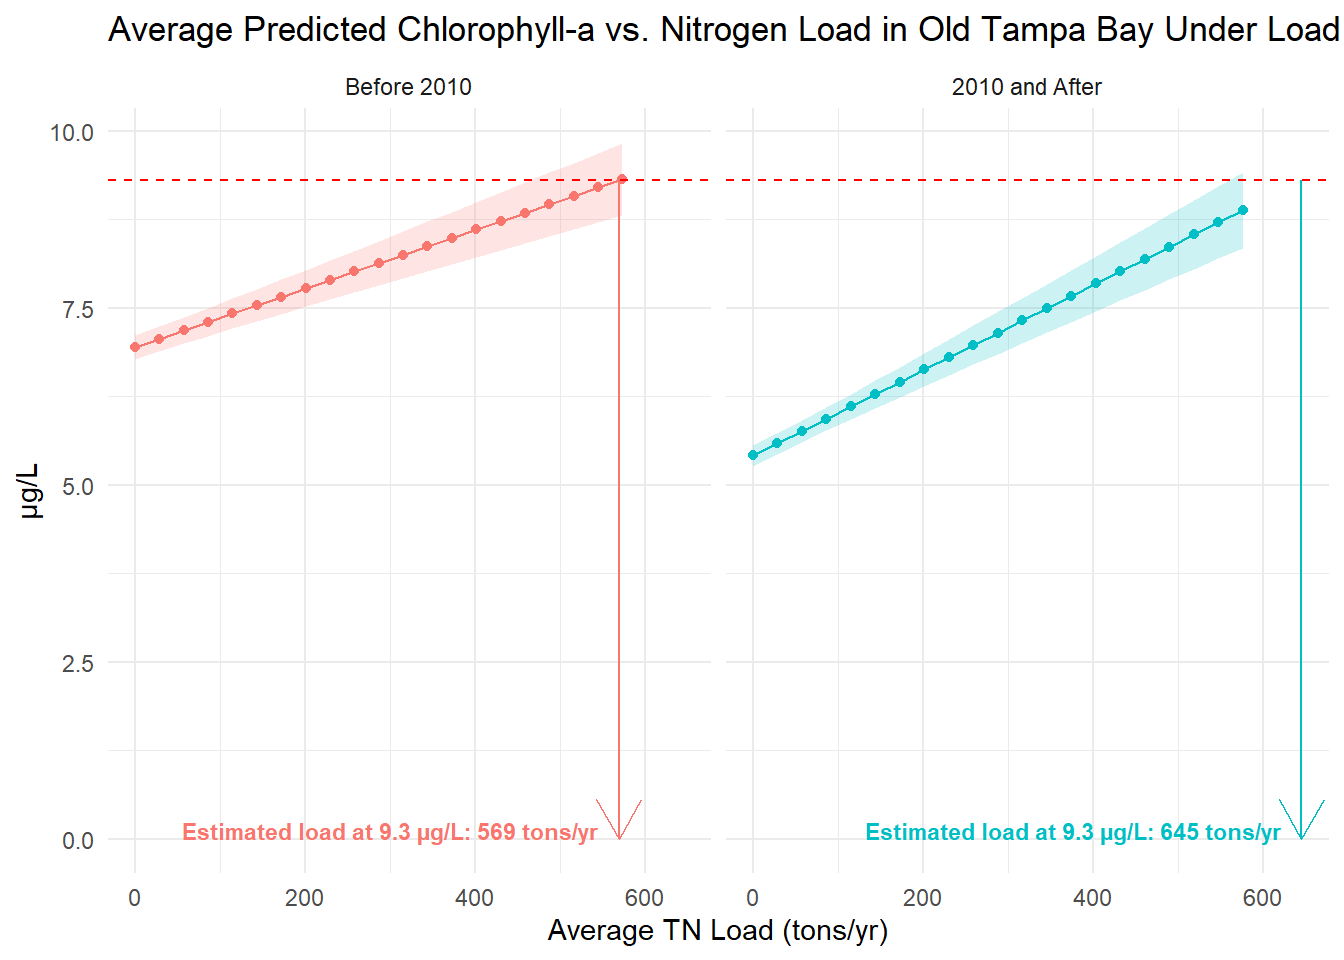
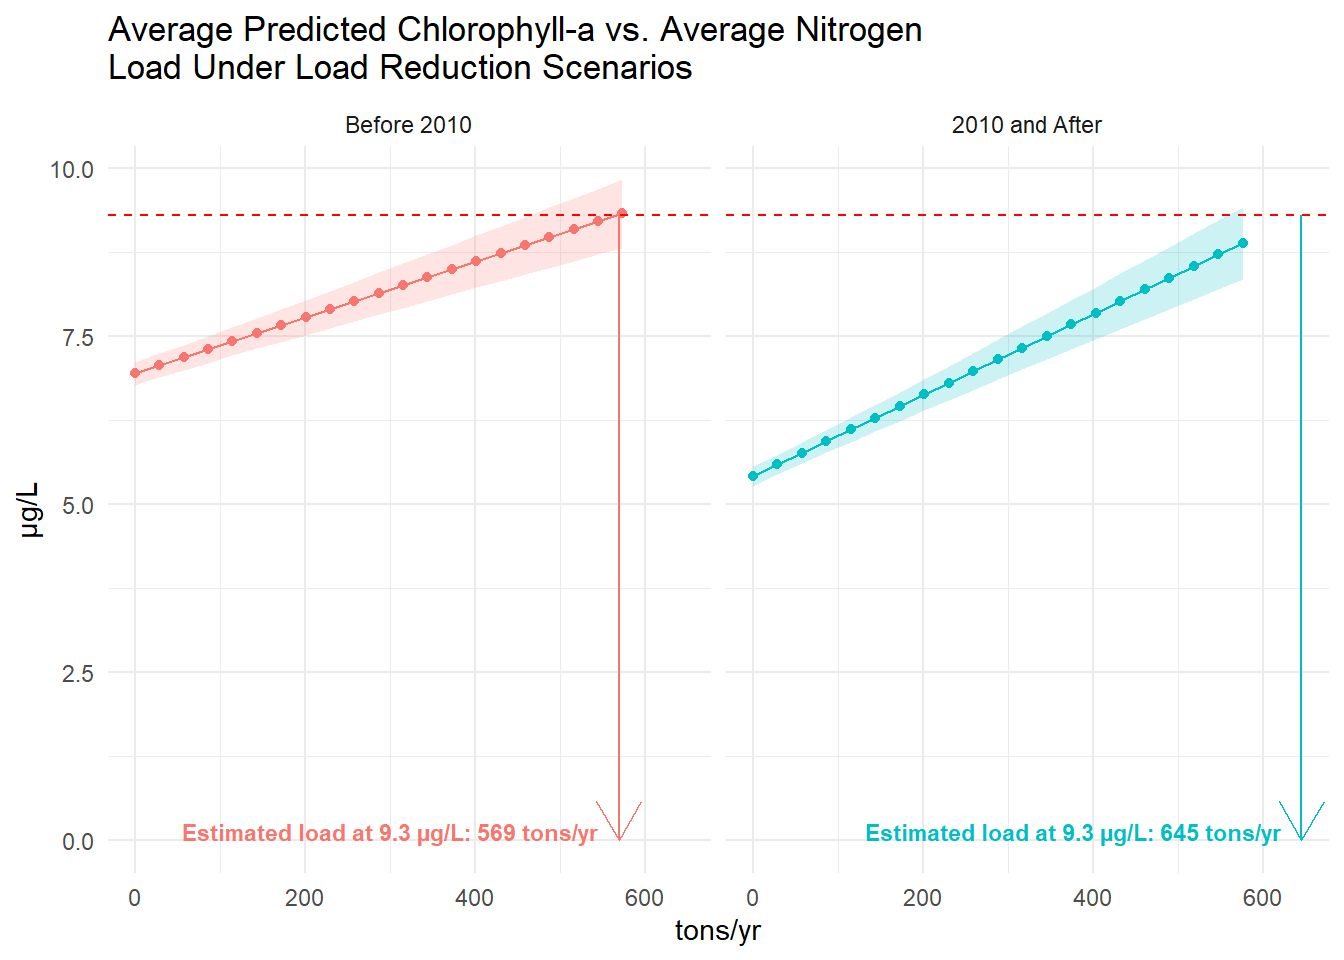
Starting model improvements

diff --git a/docs/explore.html b/docs/explore.html
@@ -120,6 +120,7 @@ window.Quarto = {
   <li><a href="#original-model-all-bay-segments" id="toc-original-model-all-bay-segments" class="nav-link active" data-scroll-target="#original-model-all-bay-segments">Original Model, All Bay Segments</a></li>
   <li><a href="#otb-only-model" id="toc-otb-only-model" class="nav-link" data-scroll-target="#otb-only-model">OTB Only Model</a></li>
   <li><a href="#assimilative-capacity-analysis" id="toc-assimilative-capacity-analysis" class="nav-link" data-scroll-target="#assimilative-capacity-analysis">Assimilative Capacity Analysis</a></li>
+  <li><a href="#model-improvements" id="toc-model-improvements" class="nav-link" data-scroll-target="#model-improvements">Model Improvements</a></li>
   </ul>
 </nav>
 </div>
@@ -160,13 +161,13 @@ window.Quarto = {
 <h2 class="anchored" data-anchor-id="original-model-all-bay-segments">Original Model, All Bay Segments</h2>
 <p>The cumulative lag model from <a href="https://drive.google.com/file/d/1kZkvuprvsMyN9nPS5PHYvXHyo1KQxKTr/view">Janicki and Wade 1996</a> is specified as:</p>
 <p><span class="math display">\[
-\text{chla}_{t, s} = \alpha_{t, s} + \beta_s \left( \Sigma_{t = 0}^{n} L_{t, s} \right)
+\text{chla}_{t, s} = \alpha_{t, s} + \beta_s \left( \Sigma_{i = I_0}^{I_n} L_{t - i, s} \right)
 \]</span></p>
-<p>where <span class="math inline">\(\text{chla}_{t, s}\)</span> is the chlorophyll-a concentration at month <span class="math inline">\(t\)</span> and bay segment <span class="math inline">\(s\)</span>, <span class="math inline">\(\alpha_{t, s}\)</span> is the intercept term that varies by <span class="math inline">\(t\)</span> and <span class="math inline">\(s\)</span>, <span class="math inline">\(\beta_s\)</span> is the coefficient for the cumulative load term that varies by <span class="math inline">\(s\)</span>, and <span class="math inline">\(L_{t, s}\)</span> is the cumulative nitrogen nitrogen load evaluated at different lags from 0 to <span class="math inline">\(n\)</span> months for each <span class="math inline">\(s\)</span>.</p>
+<p>where <span class="math inline">\(\text{chla}_{t, s}\)</span> is the chlorophyll-a concentration at month <span class="math inline">\(t\)</span> and bay segment <span class="math inline">\(s\)</span>, <span class="math inline">\(\alpha_{t, s}\)</span> is the intercept term that varies by <span class="math inline">\(t\)</span> and <span class="math inline">\(s\)</span>, <span class="math inline">\(\beta_s\)</span> is the coefficient for the cumulative load term that varies by <span class="math inline">\(s\)</span>, and <span class="math inline">\(L_{t - 1, s}\)</span> is the cumulative nitrogen nitrogen load evaluated at different lags from <span class="math inline">\(I_0\)</span> as the present month in the time series to <span class="math inline">\(I_n\)</span> months for each <span class="math inline">\(s\)</span>.</p>
 <p>The individaul lag model is specified as: <span class="math display">\[
-\text{chla}_{t, s} = \alpha_{t, s} + \beta_s L_{n, s}
+\text{chla}_{t, s} = \alpha_{t, s} + \beta_s L_{I_n, s}
 \]</span></p>
-<p>where <span class="math inline">\(\text{chla}_{t, s}\)</span> is the chlorophyll-a concentration at month <span class="math inline">\(t\)</span> and bay segment <span class="math inline">\(s\)</span>, <span class="math inline">\(\alpha_{t, s}\)</span> is the intercept term that varies by <span class="math inline">\(t\)</span> and <span class="math inline">\(s\)</span>, <span class="math inline">\(\beta_s\)</span> is the coefficient for the individual load term that varies by <span class="math inline">\(s\)</span>, and <span class="math inline">\(L_{t, s}\)</span> is the individual nitrogen load evaluated at different monthly <span class="math inline">\(n\)</span> lags for each <span class="math inline">\(s\)</span>.</p>
+<p>where <span class="math inline">\(\text{chla}_{t, s}\)</span> is the chlorophyll-a concentration at month <span class="math inline">\(t\)</span> and bay segment <span class="math inline">\(s\)</span>, <span class="math inline">\(\alpha_{t, s}\)</span> is the intercept term that varies by <span class="math inline">\(t\)</span> and <span class="math inline">\(s\)</span>, <span class="math inline">\(\beta_s\)</span> is the coefficient for the individual load term that varies by <span class="math inline">\(s\)</span>, and <span class="math inline">\(L_{t, s}\)</span> is the individual nitrogen load evaluated at different monthly <span class="math inline">\(I_n\)</span> lags for each <span class="math inline">\(s\)</span>.</p>
 <p>Both models are run with the following linear model structure in R, where the <code>tn_load</code> variable is either the cumulative or individual lag load for different <span class="math inline">\(n\)</span> lags.</p>
 <div class="cell">
 <div class="code-copy-outer-scaffold"><div class="sourceCode cell-code" id="cb1"><pre class="sourceCode r code-with-copy"><code class="sourceCode r"><span id="cb1-1"><a href="#cb1-1" aria-hidden="true" tabindex="-1"></a>chla <span class="sc">~</span> <span class="dv">0</span> <span class="sc">+</span> <span class="fu">factor</span>(bay_segment)<span class="sc">:</span><span class="fu">factor</span>(mo) <span class="sc">+</span> tn_load<span class="sc">:</span><span class="fu">factor</span>(bay_segment)</span></code></pre></div><button title="Copy to Clipboard" class="code-copy-button"><i class="bi"></i></button></div>
@@ -222,13 +223,13 @@ window.Quarto = {
 <p>The models are the same as above except the bay segment term is removed since only OTB is being modeled.</p>
 <p>The cumulative lag model from is specified as:</p>
 <p><span class="math display">\[
-\text{chla}_{t} = \alpha_{t} + \beta \left( \Sigma_{t = 0}^{n} L_{t} \right)
+\text{chla}_{t} = \alpha_{t} + \beta \left( \Sigma_{i = I_0}^{I_n} L_{t - i} \right)
 \]</span></p>
-<p>where <span class="math inline">\(\text{chla}_{t}\)</span> is the chlorophyll-a concentration at month <span class="math inline">\(t\)</span>, <span class="math inline">\(\alpha_{t}\)</span> is the intercept term that varies by <span class="math inline">\(t\)</span>, <span class="math inline">\(\beta\)</span> is the coefficient for the cumulative load term, and <span class="math inline">\(L_{t}\)</span> is the cumulative nitrogen load evaluated at different lags from 0 to <span class="math inline">\(n\)</span> months.</p>
+<p>where <span class="math inline">\(\text{chla}_{t}\)</span> is the chlorophyll-a concentration at month <span class="math inline">\(t\)</span>, <span class="math inline">\(\alpha_{t}\)</span> is the intercept term that varies by <span class="math inline">\(t\)</span>, <span class="math inline">\(\beta\)</span> is the coefficient for the cumulative load term, and <span class="math inline">\(L_{t - i}\)</span> is the cumulative nitrogen load evaluated at different lags from <span class="math inline">\(I_0\)</span> for the present month to <span class="math inline">\(I_n\)</span> months.</p>
 <p>The individaul lag model is specified as: <span class="math display">\[
-\text{chla}_{t, s} = \alpha_{t, s} + \beta_s L_{n, s}
+\text{chla}_{t} = \alpha_{t} + \beta L_{I_n}
 \]</span></p>
-<p>where <span class="math inline">\(\text{chla}_{t}\)</span> is the chlorophyll-a concentration at month <span class="math inline">\(t\)</span>, <span class="math inline">\(\alpha_{t}\)</span> is the intercept term that varies by <span class="math inline">\(t\)</span>, <span class="math inline">\(\beta\)</span> is the coefficient for the individual load term, and <span class="math inline">\(L_{t}\)</span> is the individual nitrogen load evaluated at different monthly <span class="math inline">\(n\)</span> lags.</p>
+<p>where <span class="math inline">\(\text{chla}_{t}\)</span> is the chlorophyll-a concentration at month <span class="math inline">\(t\)</span>, <span class="math inline">\(\alpha_{t}\)</span> is the intercept term that varies by <span class="math inline">\(t\)</span>, <span class="math inline">\(\beta\)</span> is the coefficient for the individual load term, and <span class="math inline">\(L_{I_n}\)</span> is the individual nitrogen load evaluated at different monthly <span class="math inline">\(I_n\)</span> lags.</p>
 <p>Both models are run with the following linear model structure in R, where the <code>tn_load</code> variable is either the cumulative or individual lag load for different <span class="math inline">\(n\)</span> lags.</p>
 <div class="cell">
 <div class="code-copy-outer-scaffold"><div class="sourceCode cell-code" id="cb2"><pre class="sourceCode r code-with-copy"><code class="sourceCode r"><span id="cb2-1"><a href="#cb2-1" aria-hidden="true" tabindex="-1"></a>chla <span class="sc">~</span> <span class="dv">0</span> <span class="sc">+</span> <span class="fu">factor</span>(mo) <span class="sc">+</span> tn_load</span></code></pre></div><button title="Copy to Clipboard" class="code-copy-button"><i class="bi"></i></button></div>
@@ -335,12 +336,35 @@ window.Quarto = {
 </div>
 </div>
 </div>
-<p>The average response of chlorophyll-a to nitrogen load changes was then estimated for each time period by taking the average of the annual chlorophyll predictions and the average load estimates for each reduction scenario. The plots below show each point as the average predicted chlorophyll-a versus the average total nitrogen load for each load reduction scenario. The dashed red line indicates the target chlorophyll-a concentration of 9.3 µg/L. The arrows indicate the estimated nitrogen load reductions needed to achieve the target chlorophyll-a concentration for each time period based on linear interpolation of the average response curves.</p>
+<p>The average response of chlorophyll-a to nitrogen load changes was then estimated for each time period by taking the average of the annual chlorophyll predictions and the average load estimates for each reduction scenario. The plots below show each point as the average predicted chlorophyll-a versus the average total nitrogen load for each load reduction scenario. The dashed red line indicates the target chlorophyll-a concentration of 9.3 µg/L. The arrows indicate the estimated nitrogen load reductions needed to achieve the target chlorophyll-a concentration for each time period based on linear interpolation of the average response curves. The estimated loads needed to achieve 9.3 µg/L chlorophyll-a are 569 tons/year before 2010 and 645 tons/year for 2010 and after.</p>
 <div class="cell">
 <div class="cell-output-display">
 <div>
 <figure class="figure">
 <p><a href="explore_files/figure-html/unnamed-chunk-16-1.png" class="lightbox" data-gallery="quarto-lightbox-gallery-15"><img src="explore_files/figure-html/unnamed-chunk-16-1.png" class="img-fluid figure-img" width="672"></a></p>
+</figure>
+</div>
+</div>
+</div>
+</section>
+<section id="model-improvements" class="level2">
+<h2 class="anchored" data-anchor-id="model-improvements">Model Improvements</h2>
+<p>The above models used to predict the assimilative capacity of Old Tampa Bay, particularly for the period after 2010, likely provide an overestimate of how much loading the bay segment can assimilate. This is likely true because of the residual patterns - the model does not capture extreme values. The model does not consider an inherently log-normal response variable and additional predictors that could improve the model fit to provide a more accurate estimate of how nitrogen load influences chlorophyll-a.</p>
+<div class="cell">
+<div class="cell-output-display">
+<div>
+<figure class="figure">
+<p><a href="explore_files/figure-html/unnamed-chunk-17-1.png" class="lightbox" data-gallery="quarto-lightbox-gallery-16"><img src="explore_files/figure-html/unnamed-chunk-17-1.png" class="img-fluid figure-img" width="672"></a></p>
+</figure>
+</div>
+</div>
+</div>
+<p>To address this issue, an additional model was developed using log-transformed chlorophyll-a as the response variable and additional predictors including salinity and temperature.</p>
+<div class="cell">
+<div class="cell-output-display">
+<div>
+<figure class="figure">
+<p><a href="explore_files/figure-html/unnamed-chunk-18-1.png" class="lightbox" data-gallery="quarto-lightbox-gallery-17"><img src="explore_files/figure-html/unnamed-chunk-18-1.png" class="img-fluid figure-img" width="672"></a></p>
 </figure>
 </div>
 </div>
